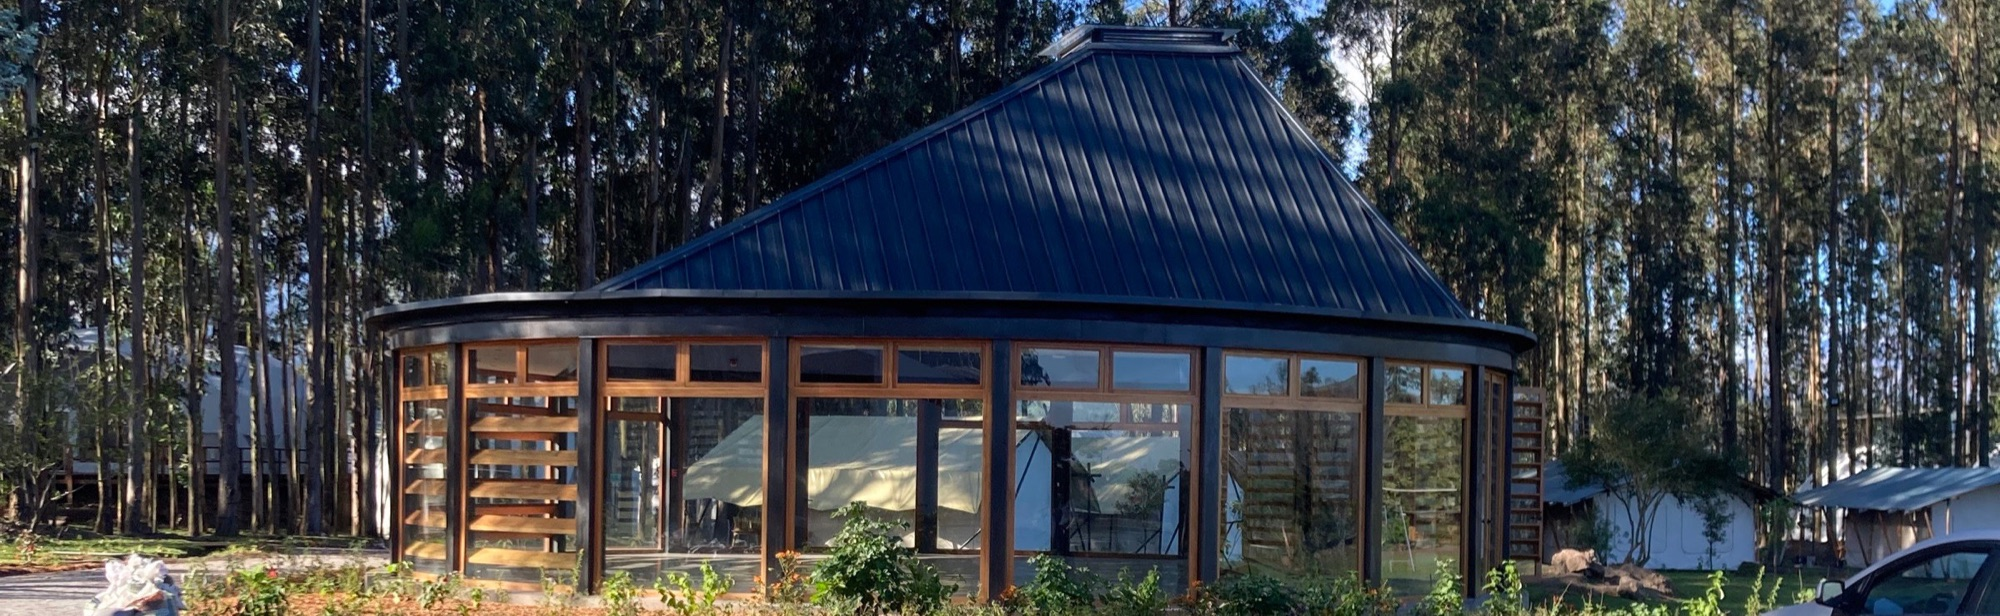
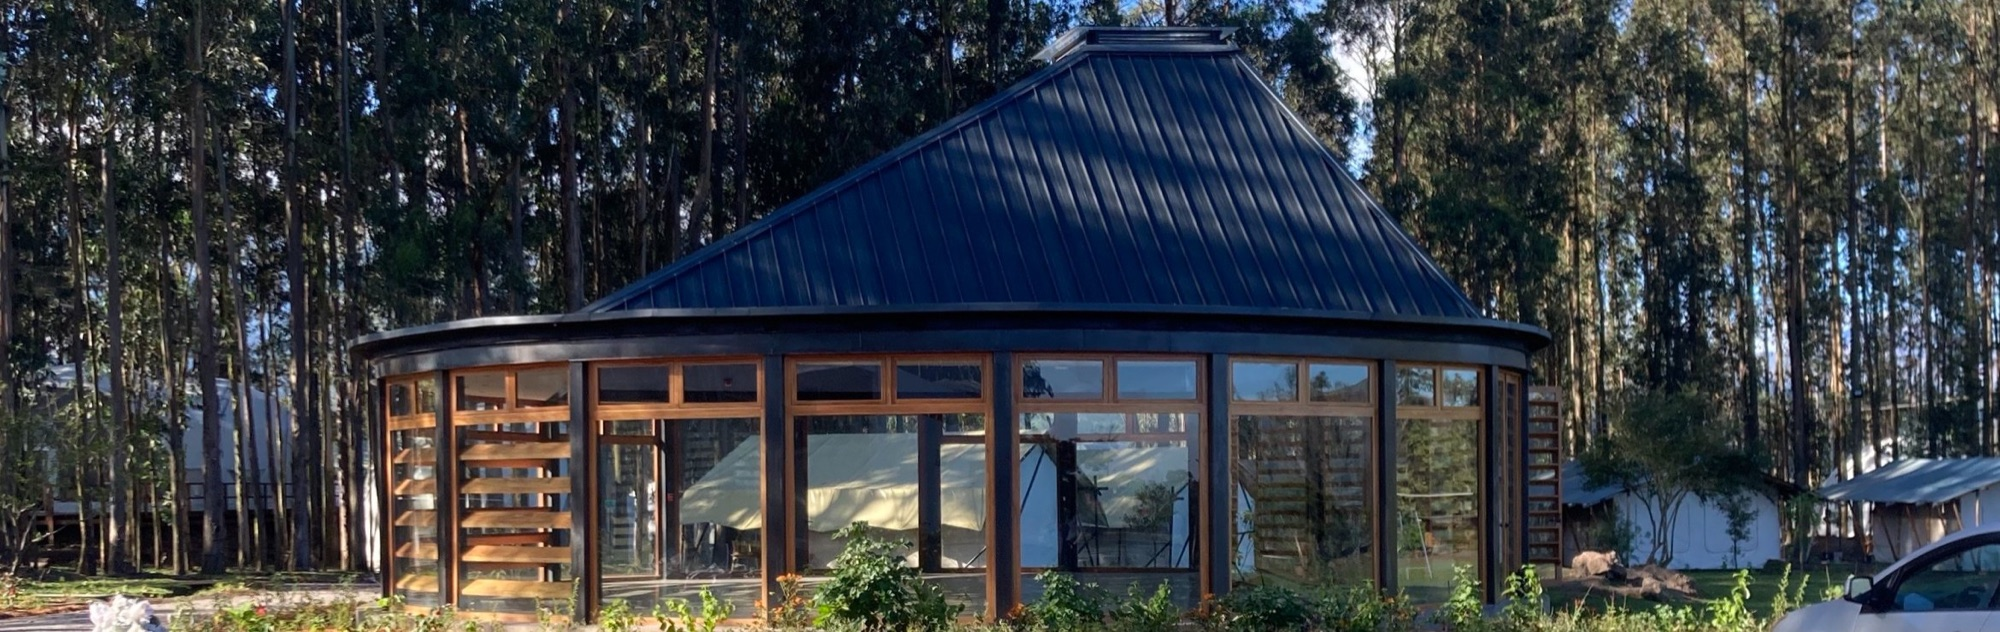
Inicio: franja de Colegio Mine nivelada (giro de 1,5° para que la cubierta se vea recta)

diff --git a/CLAUDE.md b/CLAUDE.md
@@ -107,7 +107,7 @@ Sitio en vivo: Vercel, desplegado automáticamente desde `main` de https://githu
 - `casa-br` (4): `IMG_9515, 9519, 9521, 9520` (fachada blanca con volumen de piedra oscura, escalera de madera, cocina, sala).
 - `casa-jv` (7): `IMG_1856, 1857, 3380` (voladizo sobre la base de hormigón, desde el jardín), `2027, 3376` (detalle de esquina contra el cielo), `8050, 8051` (volúmenes de revoque ocre, ventanales, luz cenital). `3376` y `3380` agregadas el 2026-11-16 a pedido de Joaquín. Todas las fotos de las carpetas de WORK están ya en la web (revisado el 2026-11-16).
 - `casa-lt` (8): `IMG_7633, IMG_7632, IMG_7634, IMG_4090, PHOTO-…-44, PHOTO-…-44 2, PHOTO-…-44 3` + obra `IMG_4291` (volúmenes terracota, celosía vertical, piedra). Las `IMG_763x` (HEIC) las agregó Joaquín al disco el 2026-11-10. Portada y franja = `IMG_7633` (terraza de piedra con celosías), a pedido de Joaquín.
-- `colegio-mine` (5): `IMG_4040, 4054, 4592, 4156` + obra `IMG_0822` (sala multiusos: pabellón poligonal, cubierta metálica, eucaliptos). **Franja del inicio** = `obras/colegio-mine-inicio.jpg`: foto frontal `IMG_4156` (2400×3200, filas 1020–1760), `pos` 50% 45% — Joaquín veía "chueca" la franja hecha con `IMG_4040` (cubierta cortada, alero curvo).
+- `colegio-mine` (5): `IMG_4040, 4054, 4592, 4156` + obra `IMG_0822` (sala multiusos: pabellón poligonal, cubierta metálica, eucaliptos). **Franja del inicio** = `obras/colegio-mine-inicio.jpg`: foto frontal `IMG_4156` (2400×3200, filas 1020–1760) **girada 1,5° antihorario para nivelar la cubierta** (la foto estaba inclinada a la derecha; Joaquín pidió "que el techo se vea recto"; giro hecho con CSS `rotate` + `compone.mjs`, sin esquinas vacías), `pos` 50% 45% — Joaquín veía "chueca" la franja hecha con `IMG_4040` (cubierta cortada, alero curvo).
 
 **Diseños (en el sitio) — solo entregas finales** (página del PDF → número de imagen; portadas en `public/img/disenos/`)
 - `centro-comunitario` (6): T4 `CENTRO COMUNITARIO.pdf` págs. 9, 1, 2, 5, 6, 7. Portada: axonometría (pág. 9, recorte `[.02,.03,.52,.52]`).
